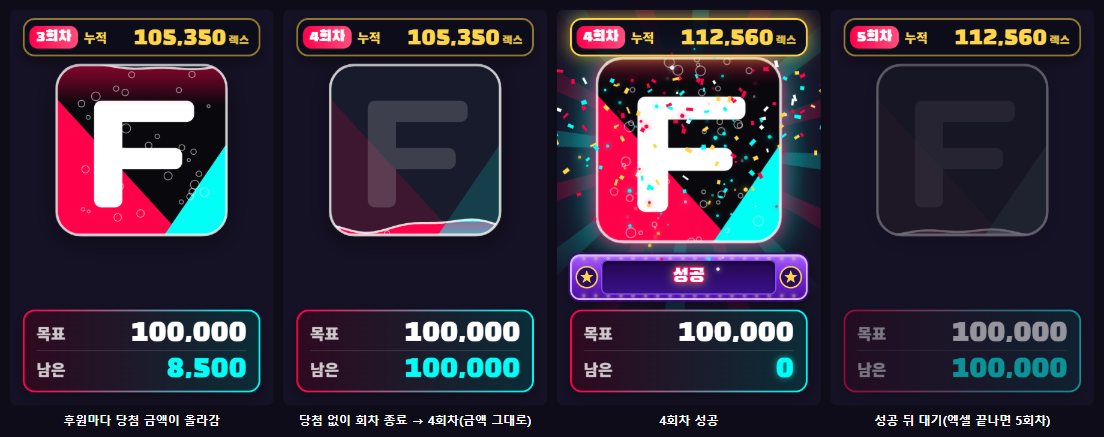
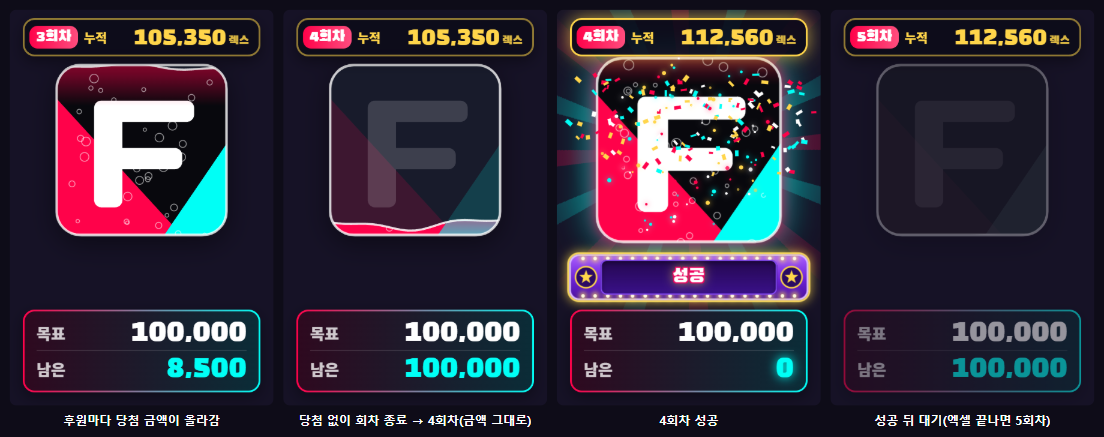
Event page: show fail and win roulette looks

diff --git a/event/index.html b/event/index.html
@@ -228,7 +228,7 @@
     </div>
     <div class="rules">
       <div class="rule key"><b>당첨 금액 = 방송 후원 전체 × 7%</b><p>그 방송에 지정 BJ에게 들어온 후원을 모두 더한 금액의 7%예요(렉스). 후원이 들어올 때마다 올라가고, 성공해도 줄지 않아요. 새 방송이면 0부터 다시 쌓여요.</p></div>
-      <div class="rule"><b>룰렛은 도전 금액 이상 후원에서만</b><p>에너지 100% 뒤 스트리머가 정한 도전 금액(예: 1,000렉스) 이상 후원해야 룰렛이 돌아요. 100렉스처럼 적은 후원은 룰렛 없이 당첨 금액에만 더해져요. 룰렛은 도전 때만 튀어나와 돌고, 결과를 보여 준 뒤 사라져요.</p></div>
+      <div class="rule"><b>룰렛은 도전 금액 이상 후원에서만</b><p>에너지 100% 뒤 스트리머가 정한 도전 금액(예: 1,000렉스) 이상 후원해야 룰렛이 돌아요. 100렉스처럼 적은 후원은 룰렛 없이 당첨 금액에만 더해져요. 룰렛은 도전 때만 튀어나와 돌고, 결과를 보여 준 뒤 사라져요. 성공은 금빛으로 번쩍이고, 실패는 흑백으로 가라앉아요.</p></div>
       <div class="rule"><b>이벤트 회차 = 엑셀 회차</b><p>한 방송은 최대 10회차예요. 엑셀 회차가 끝나거나 스트리머가 회차를 끝내면 다음 회차로 넘어가고, 당첨 금액은 그대로 이어져요.</p></div>
       <div class="rule"><b>회차마다 성공은 한 번</b><p>성공하면 그 엑셀 회차가 끝날 때까지 다음 회차를 기다려요. 그동안 위젯은 로고를 흐리게 보여 줘요.</p></div>
     </div>
@@ -263,8 +263,8 @@
     </figure>
     <div class="two">
       <figure class="figure">
-        <img src="media/widget-flow.png" alt="위젯 상태 4가지: 에너지 충전 중, 충전 완료, 3 2 1 카운트다운과 룰렛, 성공 (맨 위 3회차 누적 105,000렉스)" width="1104" height="437" loading="lazy">
-        <figcaption>에너지 충전 → 충전 완료(로고 뒤 빛, '남은 0'이 빛나요) → 3 · 2 · 1과 룰렛 → 성공(로고가 한 바퀴 돌며 번쩍, 꽃가루).</figcaption>
+        <img src="media/widget-flow.png" alt="위젯 상태 5가지: 에너지 충전 중, 충전 완료, 3 2 1 카운트다운과 함께 나타난 룰렛, 실패(룰렛이 흑백으로 가라앉음), 성공(룰렛이 금빛으로 번쩍, 맨 위 3회차 누적 106,365렉스)" width="1378" height="437" loading="lazy">
+        <figcaption>에너지 충전 → 충전 완료(로고 뒤 빛, '남은 0'이 빛나요) → 3 · 2 · 1과 함께 룰렛이 나타나 돌고 → 실패면 룰렛이 흑백으로 가라앉고, 성공이면 룰렛이 금빛으로 번쩍이며 로고가 한 바퀴 돌아요(꽃가루). 결과를 보여 준 뒤 룰렛은 사라져요.</figcaption>
       </figure>
       <figure class="figure">
         <img src="media/widget-carry.png" alt="위젯의 당첨 금액과 회차 상태 4가지: 후원으로 3회차 당첨 금액이 105,350렉스로 오름, 당첨 없이 회차 종료되어 4회차(금액 그대로), 4회차 성공 112,560렉스, 성공 뒤 5회차 대기" width="1104" height="437" loading="lazy">
